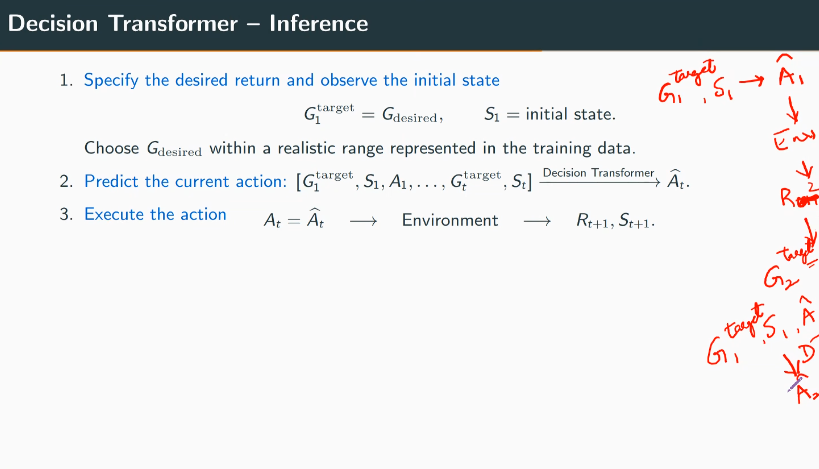
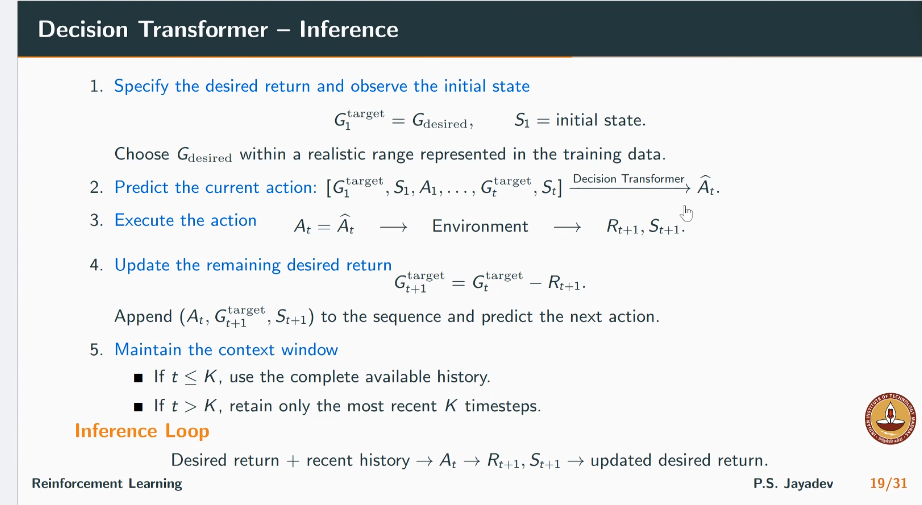
rl assignment 2 almost done

diff --git a/trimester3/DA6002W_Online&ReinforcementLearning/ReinforcementLearning/README.md b/trimester3/DA6002W_Online&ReinforcementLearning/ReinforcementLearning/README.md
@@ -381,6 +381,50 @@ Converting G, S, A inputs to vectors of same size $d$ for input to transformer:
 
 ![Decision Transformer - Inference](images/decision_transformer_inference.png)
 
+## Lecture on August 5 -- Multi-Agent Reinforcement Learning (MARL)
+
+Multi-Agent Reinforcement Learning (MARL): competitive, cooperative [we want cooperative usually to maximize team performance -- every agent gets same final team reward, inter-agent communication is very important in cooperative] ; TODO
+
+Cooperative:
+
+![Multi-Agent Cooperative Example](images/multi_agent_cooperative_example.png)
+
+Competitive (optimizes individual agent performance) - maybe but not necessarily zero-sum game:
+
+![Multi-Agent Competitive Example](images/multi_agent_competitive_example.png)
+
+![Cooperative Example - Attacker & Defender agents](images/cybersecurity_attacker_defender.png)
+
+**Mixed MARL** (agents competitive in some situations, cooperate in other situations)
+
+![Mixed MARL Example](images/mixed_marl.png)
+
+TODO
+
+List of Deep RL methods studied so far:
+
+![Deep RL Methods](images/deep_rl_methods.png)
+
+### Reward Shaping and Reinforcement Learning for LLM
+
+Common objective so far of all discussed RL methods has been to maximize expected returns (i.e. discounted sum of rewards).
+
+Reward Design: designing mathematical agent reward to match what we actually want agent to do
+
+Good Reward Design is sometimes insufficient because of sparse rewards (no / very delayed rewards for many / most actions)
+So we need to provide some artificial intermediate rewards / guidance
+This is done by **Reward Shaping** - it adds a guidance signal to original task reward.
+
+![Reward Shaping](images/reward_shaping.png)
+
+In addition to reward, we have constraints to ensure unsafe actions never take place.
+* Hard constraint: if RL agent says it wants to do an action that would result in unsafe - don't do the action
+
+IMPORTANT: for safety you put in constraints NOT in rewards
+
+DANGER: naive reward shaping changed reward risks actually changing the objective of the task!
+
+
 ## Tutorials
 
 Tutorial on July 15: Reinforcement Learning notebook with library `gymnasium` -- TODO: learn this lib, will need it for the RL project/competition!

diff --git a/trimester3/DA6002W_Online&ReinforcementLearning/ReinforcementLearning/Revision.md b/trimester3/DA6002W_Online&ReinforcementLearning/ReinforcementLearning/Revision.md
@@ -327,7 +327,9 @@ Outline:
 4. Linear Function Approximation
 5. Learning from TD Targets: Semi-Gradient TD
 6. Control with Value Function Approximation
-7. Non-Linear Function Approximat
+7. Non-Linear Function Approximation
+
+<!-- TODO -->
 
 ## 5. Policy Gradient
 
